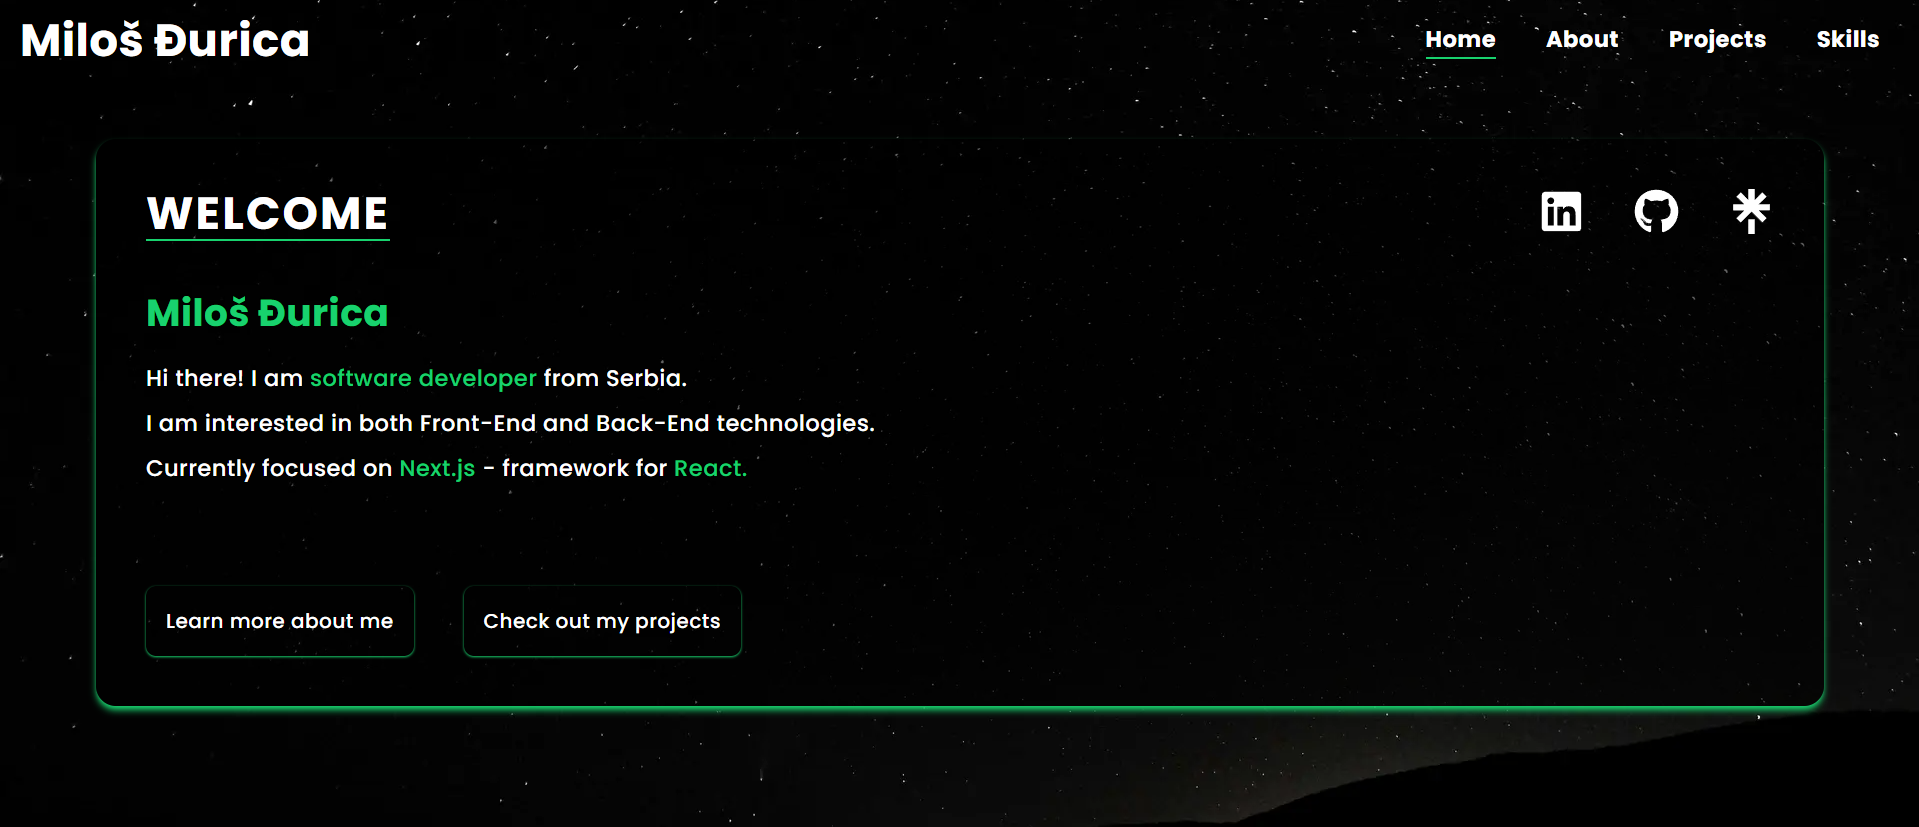
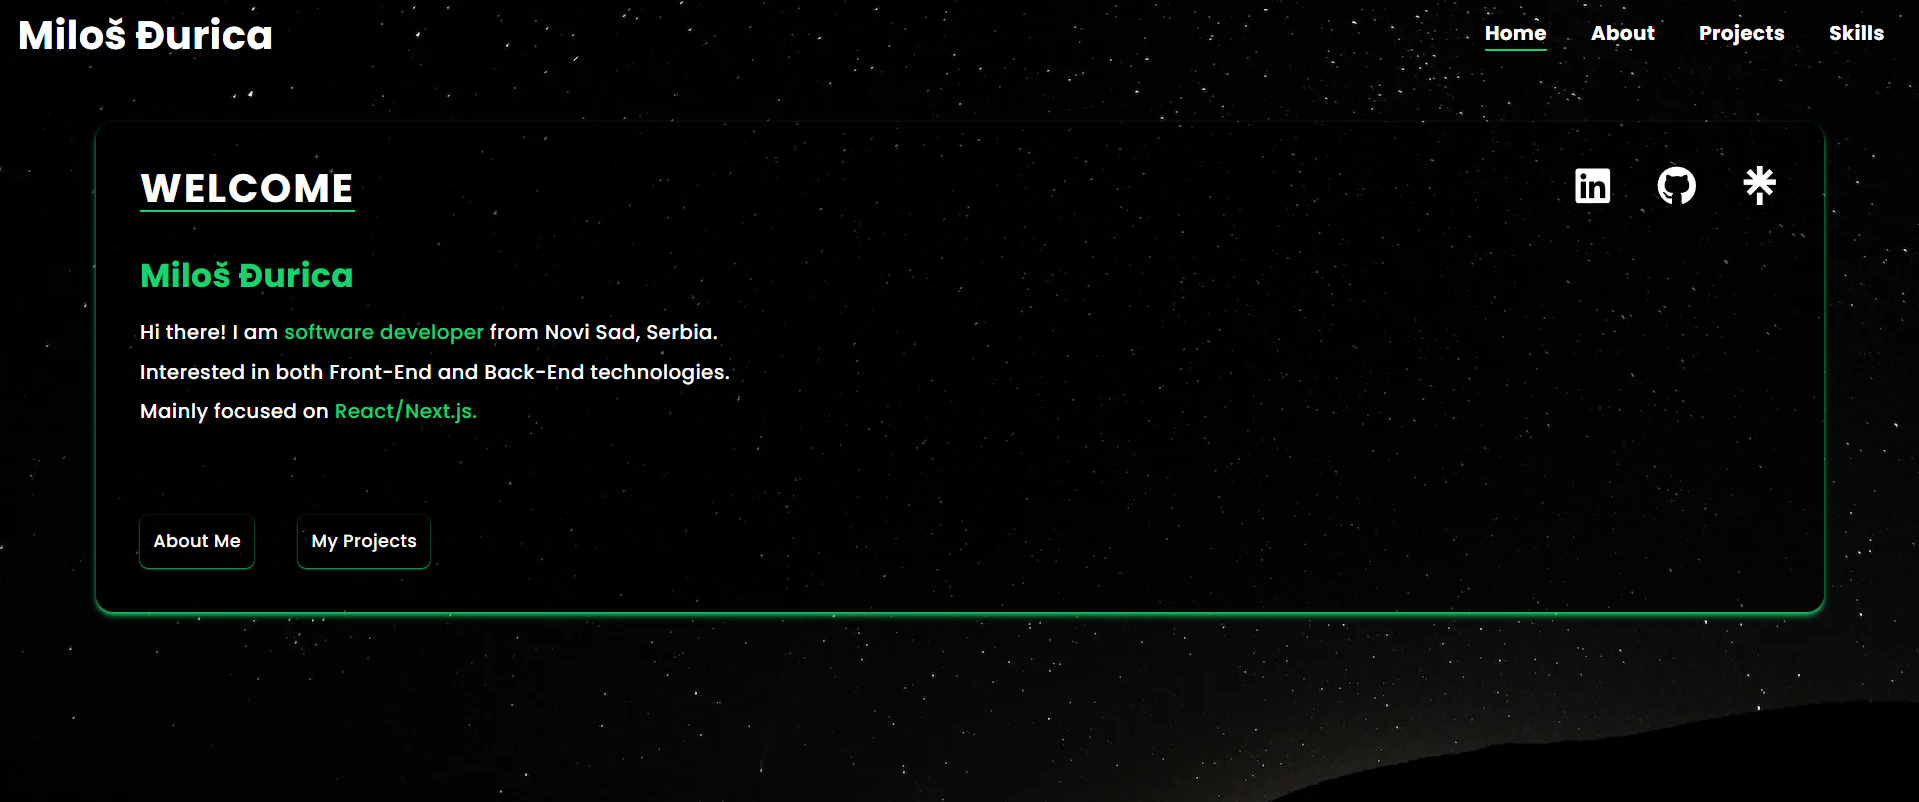
picture and readme update

diff --git a/README.md b/README.md
@@ -1,38 +1,130 @@
-This is a [Next.js](https://nextjs.org/) project bootstrapped with [`create-next-app`](https://github.com/vercel/next.js/tree/canary/packages/create-next-app).
+<!-- Improved compatibility of back to top link: See: https://github.com/milosdjurica/portfolio/pull/73 -->
 
-## Getting Started
+<a name="readme-top"></a>
 
-First, run the development server:
+<!--
+*** Thanks for checking out the portfolio. If you have a suggestion
+*** that would make this better, please fork the repo and create a pull request
+*** or simply open an issue with the tag "enhancement".
+*** Don't forget to give the project a star!
+*** Thanks again! Now go create something AMAZING! :D
+-->
 
-```bash
-npm run dev
-# or
-yarn dev
-# or
-pnpm dev
-```
+<!-- PROJECT SHIELDS -->
+<!--
+*** I'm using markdown "reference style" links for readability.
+*** Reference links are enclosed in brackets [ ] instead of parentheses ( ).
+*** See the bottom of this document for the declaration of the reference variables
+*** for contributors-url, forks-url, etc. This is an optional, concise syntax you may use.
+*** https://www.markdownguide.org/basic-syntax/#reference-style-links
+-->
 
-Open [http://localhost:3000](http://localhost:3000) with your browser to see the result.
+[![Contributors][contributors-shield]][contributors-url]
+[![Forks][forks-shield]][forks-url]
+[![Stargazers][stars-shield]][stars-url]
+[![Issues][issues-shield]][issues-url]
+[![MIT License][license-shield]][license-url]
+[![LinkedIn][linkedin-shield]][linkedin-url]
 
-You can start editing the page by modifying `pages/index.tsx`. The page auto-updates as you edit the file.
+<!-- PROJECT LOGO -->
+<br />
+<div align="center">
+  <!-- <a href="https://github.com/milosdjurica/portfolio">
+    <img src="images/logo.png" alt="Logo" width="80" height="80">
+  </a> -->
 
-[API routes](https://nextjs.org/docs/api-routes/introduction) can be accessed on [http://localhost:3000/api/hello](http://localhost:3000/api/hello). This endpoint can be edited in `pages/api/hello.ts`.
+  <h3 align="center">Portfolio Website</h3>
 
-The `pages/api` directory is mapped to `/api/*`. Files in this directory are treated as [API routes](https://nextjs.org/docs/api-routes/introduction) instead of React pages.
+  <p align="center">
+    I created my personal portfolio to showcase my projects, skills and share some information about me!
+    <br />
+    <!-- <a href="https://github.com/milosdjurica/portfolio"><strong>Explore the docs »</strong></a> -->
+    <br />
+    <br />
+    <a href="https://portfolio-milosdjurica.vercel.app/">View Demo</a>
+    ·
+    <a href="https://github.com/milosdjurica/portfolio/issues">Report Bug</a>
+    ·
+    <a href="https://github.com/milosdjurica/portfolio/issues">Request Feature</a>
+  </p>
+</div>
 
-This project uses [`next/font`](https://nextjs.org/docs/basic-features/font-optimization) to automatically optimize and load Inter, a custom Google Font.
+<!-- TABLE OF CONTENTS -->
+<details>
+  <summary>Table of Contents</summary>
+  <ol>
+    <li>
+      <a href="#about-the-project">About The Project</a>
+      <ul>
+        <li><a href="#built-with">Built With</a></li>
+      </ul>
+    </li>
+    <li>
+      <a href="#getting-started">Getting Started</a>
+    </li>
+    <li><a href="#contact">Contact</a></li>
+  </ol>
+</details>
 
-## Learn More
+<!-- ABOUT THE PROJECT -->
 
-To learn more about Next.js, take a look at the following resources:
+## About The Project
 
-- [Next.js Documentation](https://nextjs.org/docs) - learn about Next.js features and API.
-- [Learn Next.js](https://nextjs.org/learn) - an interactive Next.js tutorial.
+[![My Personal Portfolio Website][product-screenshot]](https://portfolio-milosdjurica.vercel.app/)
 
-You can check out [the Next.js GitHub repository](https://github.com/vercel/next.js/) - your feedback and contributions are welcome!
+There are many great portfolio templates available. However, I wanted to create my own so i could have a full control.
 
-## Deploy on Vercel
+<p align="right">(<a href="#readme-top">back to top</a>)</p>
 
-The easiest way to deploy your Next.js app is to use the [Vercel Platform](https://vercel.com/new?utm_medium=default-template&filter=next.js&utm_source=create-next-app&utm_campaign=create-next-app-readme) from the creators of Next.js.
+### Built With
 
-Check out our [Next.js deployment documentation](https://nextjs.org/docs/deployment) for more details.
+- [![Next][Next.js]][Next-url]
+- [![React][React.js]][React-url]
+- [![Tailwind][Tailwind.com]][Tailwind-url]
+
+<p align="right">(<a href="#readme-top">back to top</a>)</p>
+
+<!-- CONTACT -->
+
+## Contact
+
+Your Name - [My LinkedIn](https://www.linkedin.com/in/milosdjurica/) - milosdjurica.work@gmail.com
+
+Project Link: [https://github.com/milosdjurica/portfolio](https://portfolio-milosdjurica.vercel.app/)
+
+<p align="right">(<a href="#readme-top">back to top</a>)</p>
+
+<!-- ACKNOWLEDGMENTS -->
+
+<!-- MARKDOWN LINKS & IMAGES -->
+<!-- https://www.markdownguide.org/basic-syntax/#reference-style-links -->
+
+[contributors-shield]: https://img.shields.io/github/contributors/milosdjurica/portfolio.svg?style=for-the-badge
+[contributors-url]: https://github.com/milosdjurica/portfolio/graphs/contributors
+[forks-shield]: https://img.shields.io/github/forks/milosdjurica/portfolio.svg?style=for-the-badge
+[forks-url]: https://github.com/milosdjurica/portfolio/network/members
+[stars-shield]: https://img.shields.io/github/stars/milosdjurica/portfolio.svg?style=for-the-badge
+[stars-url]: https://github.com/milosdjurica/portfolio/stargazers
+[issues-shield]: https://img.shields.io/github/issues/milosdjurica/portfolio.svg?style=for-the-badge
+[issues-url]: https://github.com/milosdjurica/portfolio/issues
+[license-shield]: https://img.shields.io/github/license/milosdjurica/portfolio.svg?style=for-the-badge
+[license-url]: https://github.com/milosdjurica/portfolio/blob/master/LICENSE.txt
+[linkedin-shield]: https://img.shields.io/badge/-LinkedIn-black.svg?style=for-the-badge&logo=linkedin&colorB=555
+[linkedin-url]: https://linkedin.com/in/milosdjurica
+[product-screenshot]: public/assets/portfolio/home.png
+[Next.js]: https://img.shields.io/badge/next.js-000000?style=for-the-badge&logo=nextdotjs&logoColor=white
+[Next-url]: https://nextjs.org/
+[React.js]: https://img.shields.io/badge/React-20232A?style=for-the-badge&logo=react&logoColor=61DAFB
+[React-url]: https://reactjs.org/
+[Vue.js]: https://img.shields.io/badge/Vue.js-35495E?style=for-the-badge&logo=vuedotjs&logoColor=4FC08D
+[Vue-url]: https://vuejs.org/
+[Angular.io]: https://img.shields.io/badge/Angular-DD0031?style=for-the-badge&logo=angular&logoColor=white
+[Angular-url]: https://angular.io/
+[Svelte.dev]: https://img.shields.io/badge/Svelte-4A4A55?style=for-the-badge&logo=svelte&logoColor=FF3E00
+[Svelte-url]: https://svelte.dev/
+[Laravel.com]: https://img.shields.io/badge/Laravel-FF2D20?style=for-the-badge&logo=laravel&logoColor=white
+[Laravel-url]: https://laravel.com
+[Tailwind.com]: https://example.com
+[Tailwind-url]: https://tailwindcss.com/
+[JQuery.com]: https://img.shields.io/badge/jQuery-0769AD?style=for-the-badge&logo=jquery&logoColor=white
+[JQuery-url]: https://jquery.com
